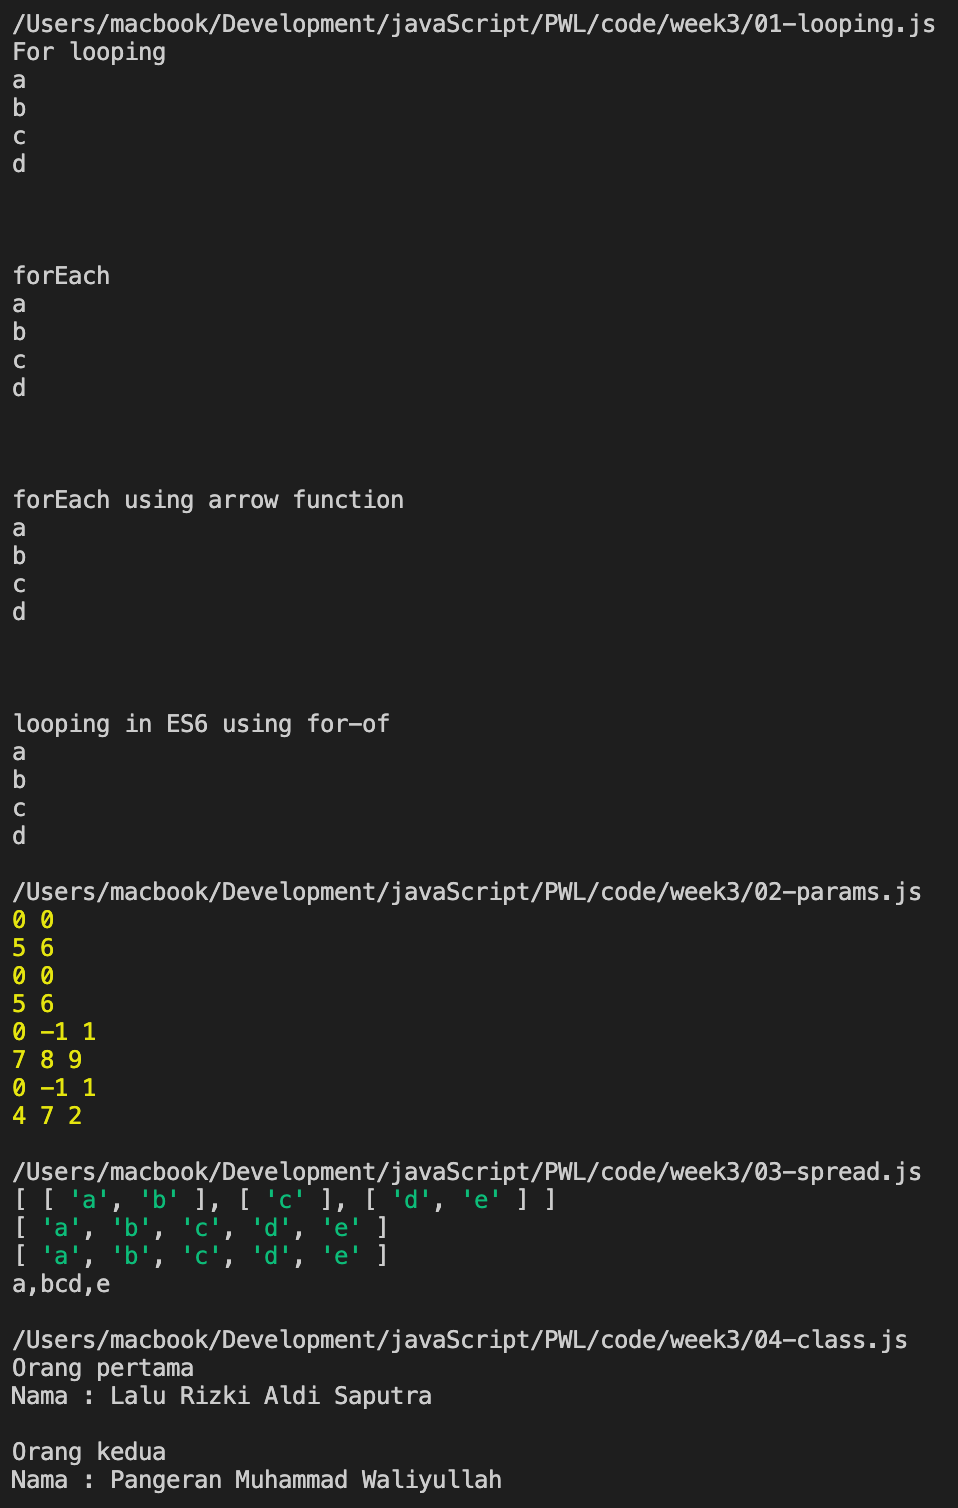
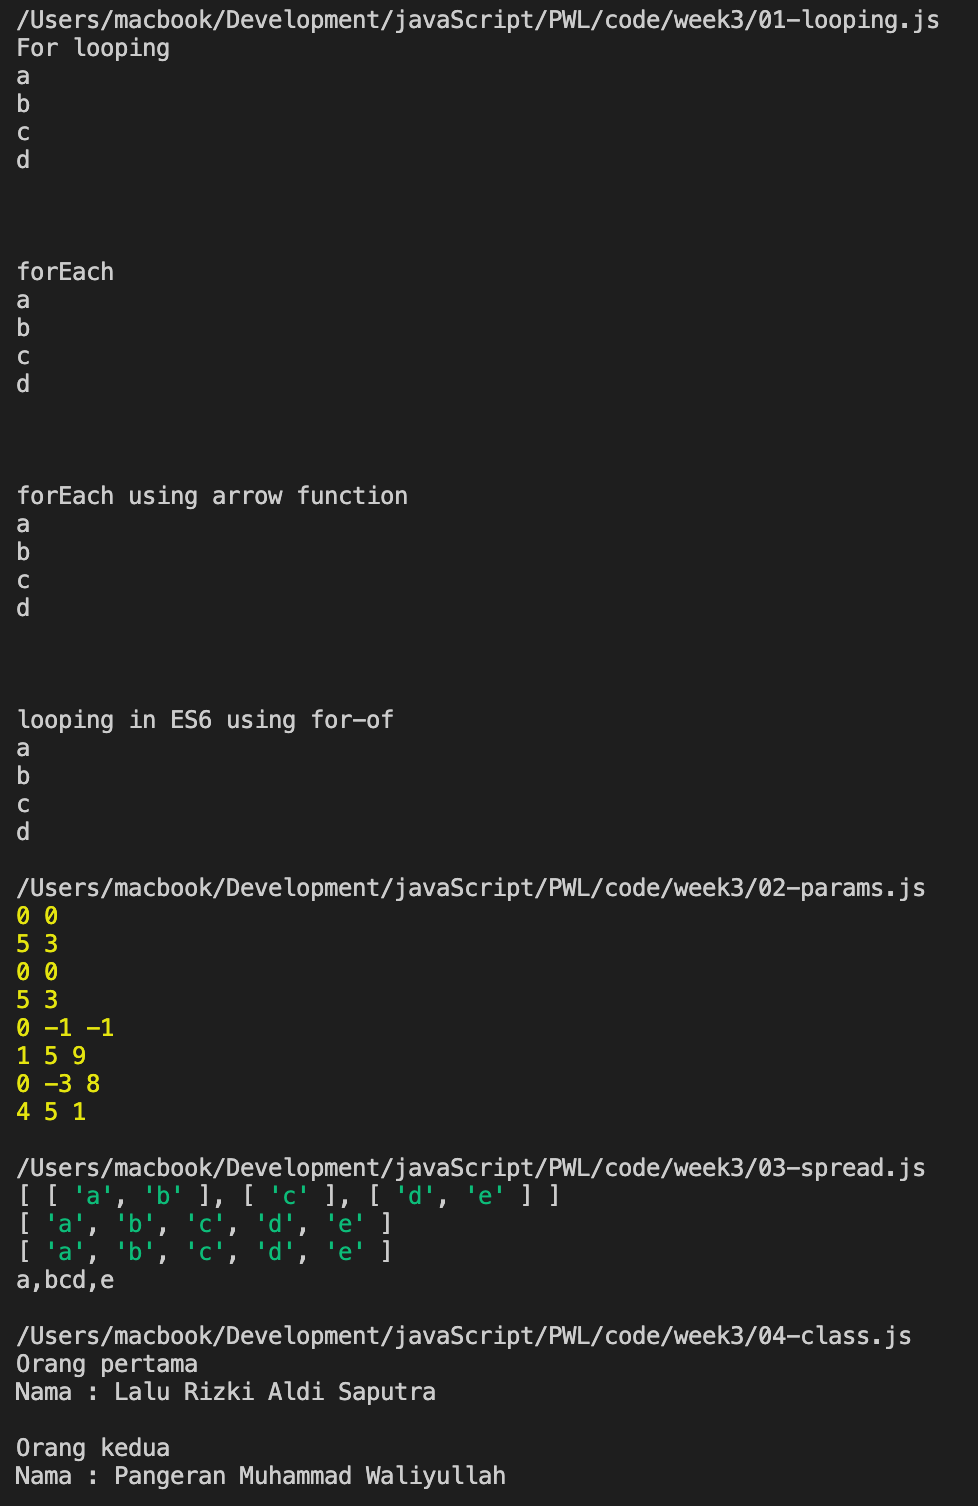
add screenshot

diff --git a/week3/02-params.js b/week3/02-params.js
@@ -5,7 +5,7 @@ function  foo(x,y){
 }
 
 foo();
-foo(5,6)
+foo(5,3)
 
 
 function bar ( x =0,y =0){
@@ -13,23 +13,23 @@ function bar ( x =0,y =0){
 }
 
 bar();
-bar(5,6);
+bar(5,3);
 
 
 function SelectEntries(Option){
     var start = Option.start || 0;
     var end = Option.end || -1;
-    var step = Option.step || 1;
+    var step = Option.step || -1;
     console.log(start,end,step);
 }
 
 SelectEntries({});
-SelectEntries({start:7,step: 9, end: 8});
+SelectEntries({start:1,step: 9, end: 5});
 
 
-function  SelectEntries2({ start =0,end =-1,step =1}){
+function  SelectEntries2({ start =0,end =-3,step =8}){
     console.log(start,end,step);
 }
 
 SelectEntries2({})
-SelectEntries2({end:7, start: 4,step:2});
+SelectEntries2({end:5, start: 4,step:1});
